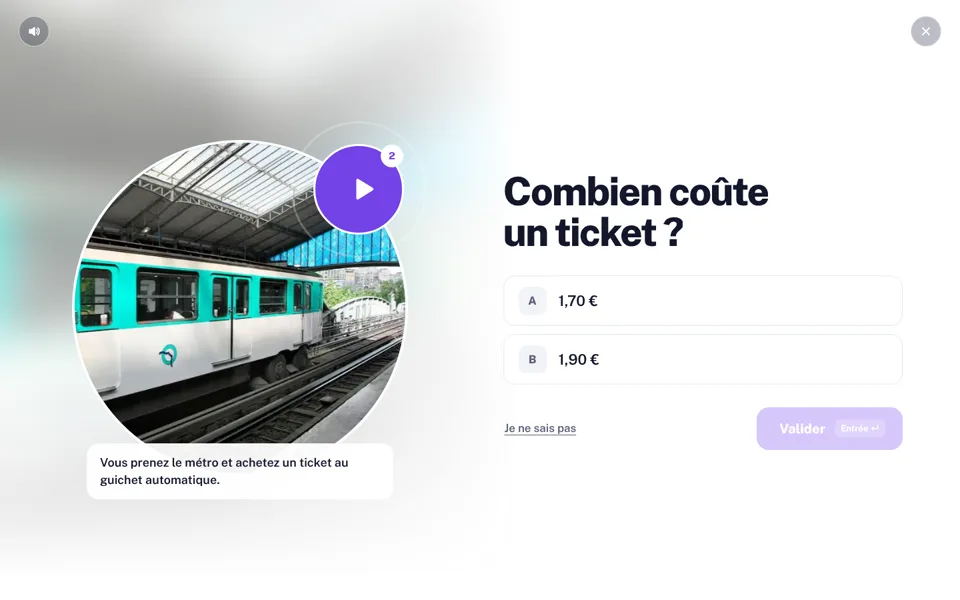
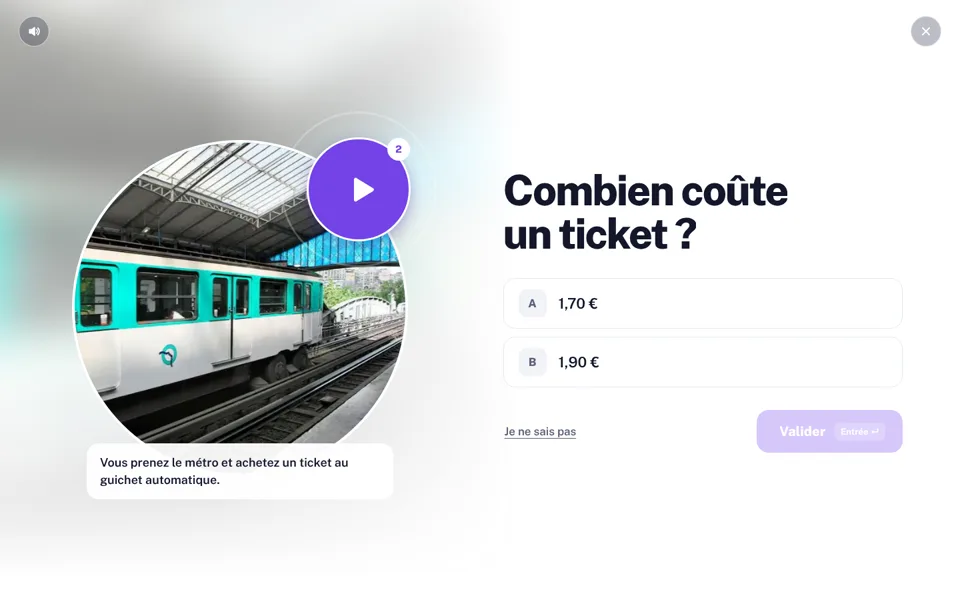
Maquettes bureau, piste D : question un peu plus grande, play plus visible
- Question : clamp(42px, 4,4vw, 71px) au lieu de clamp(39px, 4,1vw, 66px).
- Play : 156 px au lieu de 136 (132 px sur les écrans peu hauts), triangle recentré vers la gauche, petite ombre
  portée (demandée) pour qu'il se détache du cercle.

Claude-Session: https://claude.ai/code/session_01FeZWDqfAndBDqFz8uAYmmt

diff --git a/travaux/positionnement-fle-3/maquettes-bureau/piste-d.html b/travaux/positionnement-fle-3/maquettes-bureau/piste-d.html
@@ -151,11 +151,13 @@ h1, h2, p, ul { margin: 0; }
 .hublot { position: relative; aspect-ratio: 1; overflow: hidden; border: 4px solid #fff; border-radius: 50%; background: var(--ciel); }
 .hublot img { position: absolute; inset: 0; width: 100%; height: 100%; object-fit: cover; object-position: var(--pos, 50% 50%); }
 .hublot .coche { position: absolute; inset: 0; margin: auto; }
-.scene > .bille { position: absolute; z-index: 2; left: calc(85.4% - var(--b) / 2); top: calc(14.6% - var(--b) / 2); --b: 136px; }
+/* le play : plus gros, triangle recentré, petite ombre portée (demandée) pour qu'il se détache du cercle */
+.scene > .bille { position: absolute; z-index: 2; left: calc(85.4% - var(--b) / 2); top: calc(14.6% - var(--b) / 2); --b: 156px; box-shadow: 0 8px 22px rgba(52, 26, 140, .32); }
+.scene > .bille > svg { margin-left: 3%; }
 .sur { position: absolute; z-index: 1; left: 50%; bottom: -7%; display: grid; justify-items: center; gap: 12px; width: min(460px, 118%); transform: translateX(-50%); }
 .sur .carte, .sur .sms, .sur .phrase { justify-self: stretch; }
 .droite { position: relative; display: flex; flex-direction: column; justify-content: center; gap: 34px; max-width: 900px; padding: 104px clamp(40px, 6vw, 112px) 72px clamp(16px, 2.4vw, 48px); }
-.question { font-size: clamp(39px, 4.1vw, 66px); font-weight: 800; line-height: 1.03; letter-spacing: -.038em; text-wrap: balance; outline: none; }
+.question { font-size: clamp(42px, 4.4vw, 71px); font-weight: 800; line-height: 1.03; letter-spacing: -.038em; text-wrap: balance; outline: none; }
 .reponses { display: grid; gap: 12px; }
 .rep { min-height: 76px; }
 .titre-geant { font-size: clamp(52px, 5.7vw, 96px); font-weight: 900; line-height: .95; letter-spacing: -.05em; text-wrap: balance; outline: none; }
@@ -198,7 +200,7 @@ h1, h2, p, ul { margin: 0; }
   .droite { gap: 26px; padding-top: 84px; padding-bottom: 40px; }
   .ecran-accueil .droite { gap: 20px; }
   .titre-geant { font-size: min(5.7vw, 9.7vh); }
-  .scene > .bille { --b: 116px; }
+  .scene > .bille { --b: 132px; }
 }
 @media (max-width: 900px) {
   body { overflow: auto; }

diff --git a/travaux/positionnement-fle-3/maquettes-bureau/src/piste-d.html b/travaux/positionnement-fle-3/maquettes-bureau/src/piste-d.html
@@ -23,11 +23,13 @@
 .hublot { position: relative; aspect-ratio: 1; overflow: hidden; border: 4px solid #fff; border-radius: 50%; background: var(--ciel); }
 .hublot img { position: absolute; inset: 0; width: 100%; height: 100%; object-fit: cover; object-position: var(--pos, 50% 50%); }
 .hublot .coche { position: absolute; inset: 0; margin: auto; }
-.scene > .bille { position: absolute; z-index: 2; left: calc(85.4% - var(--b) / 2); top: calc(14.6% - var(--b) / 2); --b: 136px; }
+/* le play : plus gros, triangle recentré, petite ombre portée (demandée) pour qu'il se détache du cercle */
+.scene > .bille { position: absolute; z-index: 2; left: calc(85.4% - var(--b) / 2); top: calc(14.6% - var(--b) / 2); --b: 156px; box-shadow: 0 8px 22px rgba(52, 26, 140, .32); }
+.scene > .bille > svg { margin-left: 3%; }
 .sur { position: absolute; z-index: 1; left: 50%; bottom: -7%; display: grid; justify-items: center; gap: 12px; width: min(460px, 118%); transform: translateX(-50%); }
 .sur .carte, .sur .sms, .sur .phrase { justify-self: stretch; }
 .droite { position: relative; display: flex; flex-direction: column; justify-content: center; gap: 34px; max-width: 900px; padding: 104px clamp(40px, 6vw, 112px) 72px clamp(16px, 2.4vw, 48px); }
-.question { font-size: clamp(39px, 4.1vw, 66px); font-weight: 800; line-height: 1.03; letter-spacing: -.038em; text-wrap: balance; outline: none; }
+.question { font-size: clamp(42px, 4.4vw, 71px); font-weight: 800; line-height: 1.03; letter-spacing: -.038em; text-wrap: balance; outline: none; }
 .reponses { display: grid; gap: 12px; }
 .rep { min-height: 76px; }
 .titre-geant { font-size: clamp(52px, 5.7vw, 96px); font-weight: 900; line-height: .95; letter-spacing: -.05em; text-wrap: balance; outline: none; }
@@ -70,7 +72,7 @@
   .droite { gap: 26px; padding-top: 84px; padding-bottom: 40px; }
   .ecran-accueil .droite { gap: 20px; }
   .titre-geant { font-size: min(5.7vw, 9.7vh); }
-  .scene > .bille { --b: 116px; }
+  .scene > .bille { --b: 132px; }
 }
 @media (max-width: 900px) {
   body { overflow: auto; }
